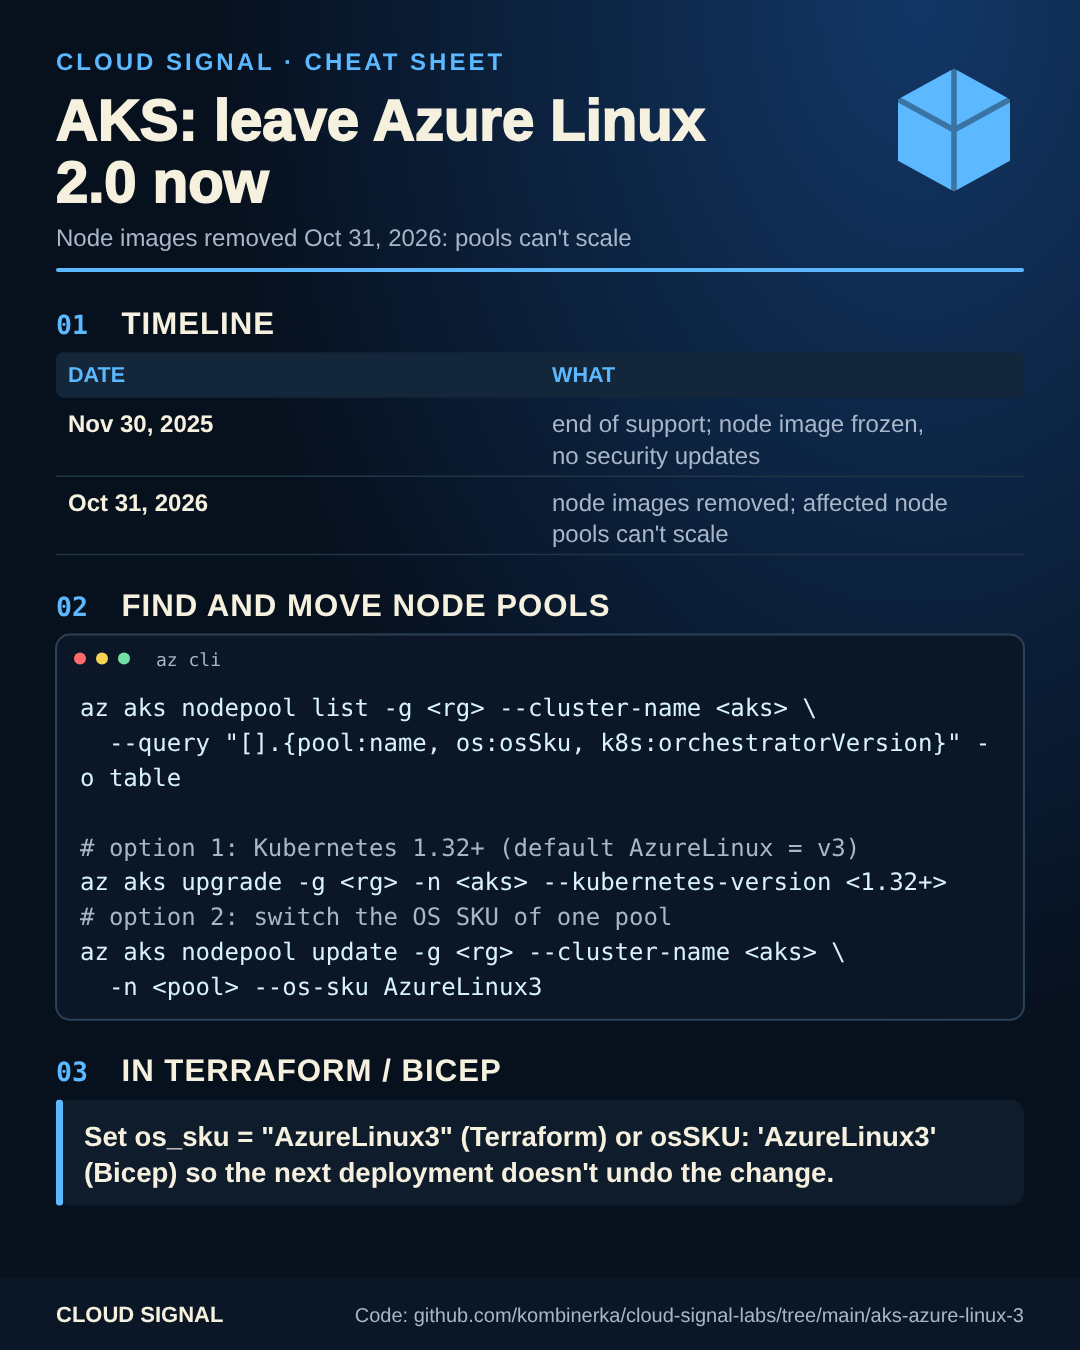
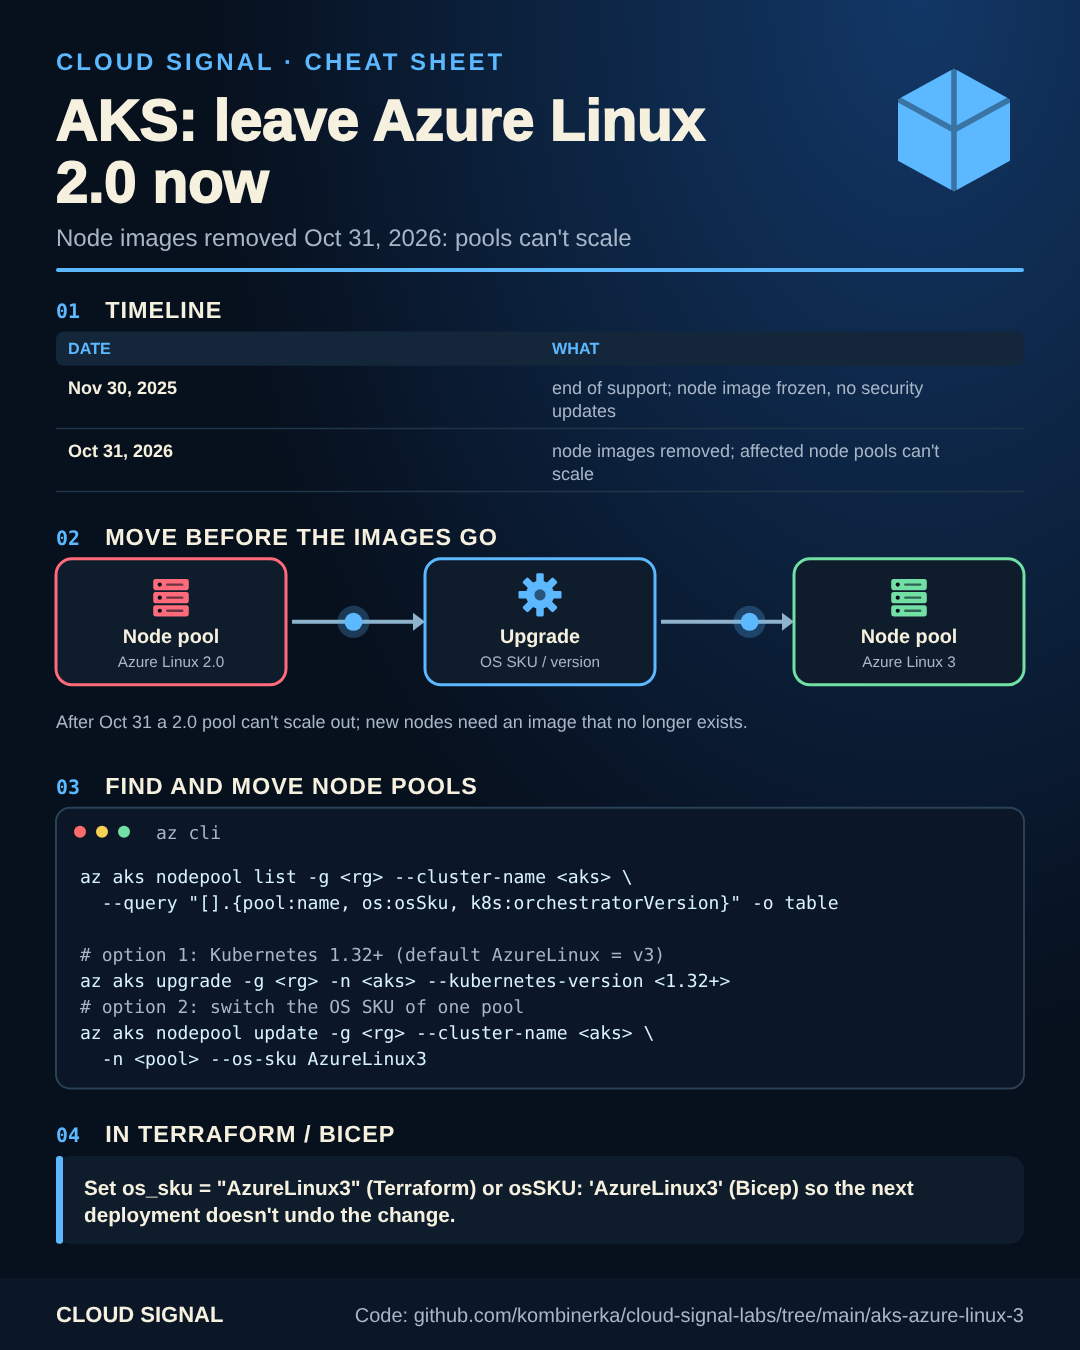
Animated cheat sheets: flow diagrams with moving requests replace the video clips
Twelve folders get cheatsheet-animated.png (4 s loop, APNG) with the static
cheatsheet.png kept for printing. drift-detection and hub-spoke-peering get
their first cheat sheets.

Claude-Session: https://claude.ai/code/session_017yhdx7g7cWuk1foMS8rncz

diff --git a/agent-sandbox/README.md b/agent-sandbox/README.md
@@ -2,9 +2,9 @@
 
 Companion code for the Cloud Signal Short **"Your AI Agent Has Terminal Access. Does It Have Your Whole Computer?"**
 
-<img src="how-it-works.png" width="540" alt="How it works (animated, from the video)">
+<img src="cheatsheet-animated.png" width="540" alt="Cheat sheet (animated)">
 
-![Cheat sheet](cheatsheet.png)
+<sub>Static version for printing or sharing: [cheatsheet.png](cheatsheet.png)</sub>
 
 A command an AI agent runs has your rights: your files, your network, your saved credentials. "Please don't touch
 the secrets folder" in a prompt is a request, not a boundary. The boundary has to be enforced **outside** the model.

diff --git a/terraform-state-lock/README.md b/terraform-state-lock/README.md
@@ -2,9 +2,9 @@
 
 Companion code for the Cloud Signal Short **"Two Pipelines Run terraform apply at Once. Who Wins?"**
 
-<img src="how-it-works.png" width="540" alt="How it works (animated, from the video)">
+<img src="cheatsheet-animated.png" width="540" alt="Cheat sheet (animated)">
 
-![Cheat sheet](cheatsheet.png)
+<sub>Static version for printing or sharing: [cheatsheet.png](cheatsheet.png)</sub>
 
 Without a lock, both runs read the same state, both change things, and the last one to write the state wins. The
 other run's changes still exist in Azure but not in the state: drift and duplicate resources.

diff --git a/drift-detection/README.md b/drift-detection/README.md
@@ -2,7 +2,9 @@
 
 Companion code for the Cloud Signal Short **"What Is Infrastructure Drift? (In 40 Seconds)"**.
 
-<img src="how-it-works.png" width="540" alt="How it works (animated, from the video)">
+<img src="cheatsheet-animated.png" width="540" alt="Cheat sheet (animated)">
+
+<sub>Static version for printing or sharing: [cheatsheet.png](cheatsheet.png)</sub>
 
 Your code says the network security group only allows 443. At 2 AM someone opened 22 in the portal and never closed
 it. Reviews still pass, because the code still looks right. The risk only exists in the portal.

diff --git a/idempotency-keys/README.md b/idempotency-keys/README.md
@@ -2,9 +2,9 @@
 
 Companion code for the Cloud Signal Short **"You Clicked Pay Twice. Were You Charged Twice?"**
 
-<img src="how-it-works.png" width="540" alt="How it works (animated, from the video)">
+<img src="cheatsheet-animated.png" width="540" alt="Cheat sheet (animated)">
 
-![Cheat sheet](cheatsheet.png)
+<sub>Static version for printing or sharing: [cheatsheet.png](cheatsheet.png)</sub>
 
 A request is **idempotent** when doing it twice has the same effect as doing it once. Payments aren't, by nature:
 every POST could be a new charge. The fix is an idempotency key:

diff --git a/hub-spoke-peering/README.md b/hub-spoke-peering/README.md
@@ -2,7 +2,9 @@
 
 Companion code for the Cloud Signal Short **"Why A Can't Reach C in Azure (Peering Isn't Transitive)"**.
 
-<img src="how-it-works.png" width="540" alt="How it works (animated, from the video)">
+<img src="cheatsheet-animated.png" width="540" alt="Cheat sheet (animated)">
+
+<sub>Static version for printing or sharing: [cheatsheet.png](cheatsheet.png)</sub>
 
 A is peered with B, B with C, and a packet from A to C never arrives. A peering connects exactly two networks;
 traffic doesn't hop through a third one on its own. Two ways to connect A and C:

diff --git a/startup-probe/README.md b/startup-probe/README.md
@@ -2,7 +2,9 @@
 
 Companion code for the Cloud Signal Short **"Kubernetes Keeps Killing Your Slow App? Check the Liveness Probe"**
 
-![Cheat sheet](cheatsheet.png)
+<img src="cheatsheet-animated.png" width="540" alt="Cheat sheet (animated)">
+
+<sub>Static version for printing or sharing: [cheatsheet.png](cheatsheet.png)</sub>
 
 If the app needs 90 seconds to start and the liveness probe starts checking after 10, the probe fails while the app
 is still loading, Kubernetes restarts it, and the restart is just as slow: a crash loop caused by the health check.

diff --git a/k8s-rightsizing/README.md b/k8s-rightsizing/README.md
@@ -2,7 +2,9 @@
 
 Companion code for the Cloud Signal Short **"Your Kubernetes Cluster Is Full. Your Nodes Are Idle. How?"**
 
-![Cheat sheet](cheatsheet.png)
+<img src="cheatsheet-animated.png" width="540" alt="Cheat sheet (animated)">
+
+<sub>Static version for printing or sharing: [cheatsheet.png](cheatsheet.png)</sub>
 
 The scheduler places pods by their **requests**, not by what they use. A pod that requests 2 CPUs reserves 2 CPUs
 even if it uses 0.2. Nodes fill up while sitting mostly idle, and the cluster autoscaler adds nodes you pay for.

diff --git a/rate-limit-429/README.md b/rate-limit-429/README.md
@@ -2,7 +2,9 @@
 
 Companion code for the Cloud Signal Short **"429 Too Many Requests: What Actually Happened?"**
 
-![Cheat sheet](cheatsheet.png)
+<img src="cheatsheet-animated.png" width="540" alt="Cheat sheet (animated)">
+
+<sub>Static version for printing or sharing: [cheatsheet.png](cheatsheet.png)</sub>
 
 A 429 means you hit the API's rate limit. A common way to enforce one is a **token bucket**: it refills at a steady
 rate (say 10 per second), every request takes a token, bursts are fine while tokens last, and an empty bucket answers

diff --git a/private-endpoint-dns/README.md b/private-endpoint-dns/README.md
@@ -2,7 +2,9 @@
 
 Companion code for the Cloud Signal Short **"Private Endpoint Added. Why Is Traffic Still Public?"**
 
-![Cheat sheet](cheatsheet.png)
+<img src="cheatsheet-animated.png" width="540" alt="Cheat sheet (animated)">
+
+<sub>Static version for printing or sharing: [cheatsheet.png](cheatsheet.png)</sub>
 
 A private endpoint gives a service a private IP in your subnet, but your app connects to a **name**. If
 `mystore.blob.core.windows.net` still resolves to the public address, traffic goes the public way, or fails once

diff --git a/aks-azure-linux-3/README.md b/aks-azure-linux-3/README.md
@@ -2,7 +2,9 @@
 
 Companion code for the Cloud Signal Short **"Your AKS Node Pool Might Stop Scaling on October 31"**
 
-![Cheat sheet](cheatsheet.png)
+<img src="cheatsheet-animated.png" width="540" alt="Cheat sheet (animated)">
+
+<sub>Static version for printing or sharing: [cheatsheet.png](cheatsheet.png)</sub>
 
 Azure Linux 2.0 reached end of support on AKS on November 30, 2025; its node image has been frozen since. On
 October 31, 2026 the node images are removed and node pools that still use them **can't scale**.

diff --git a/rag-basics/README.md b/rag-basics/README.md
@@ -2,7 +2,9 @@
 
 Companion code for the Cloud Signal Short **"How Does AI Answer From Documents It Was Never Trained On?"**
 
-![Cheat sheet](cheatsheet.png)
+<img src="cheatsheet-animated.png" width="540" alt="Cheat sheet (animated)">
+
+<sub>Static version for printing or sharing: [cheatsheet.png](cheatsheet.png)</sub>
 
 Retrieval-augmented generation: the model doesn't learn your documents, it **reads** them at question time.
 [`rag.py`](rag.py) shows every step with the standard library only:

diff --git a/cache-invalidation/README.md b/cache-invalidation/README.md
@@ -2,7 +2,9 @@
 
 Companion code for the Cloud Signal Short **"You Changed the Price. Why Does the Website Still Show the Old One?"**
 
-![Cheat sheet](cheatsheet.png)
+<img src="cheatsheet-animated.png" width="540" alt="Cheat sheet (animated)">
+
+<sub>Static version for printing or sharing: [cheatsheet.png](cheatsheet.png)</sub>
 
 An app keeps a copy of data (cache-aside) and serves it until its **time to live** expires. Until then, everyone
 sees the old value. Pick per kind of data:
